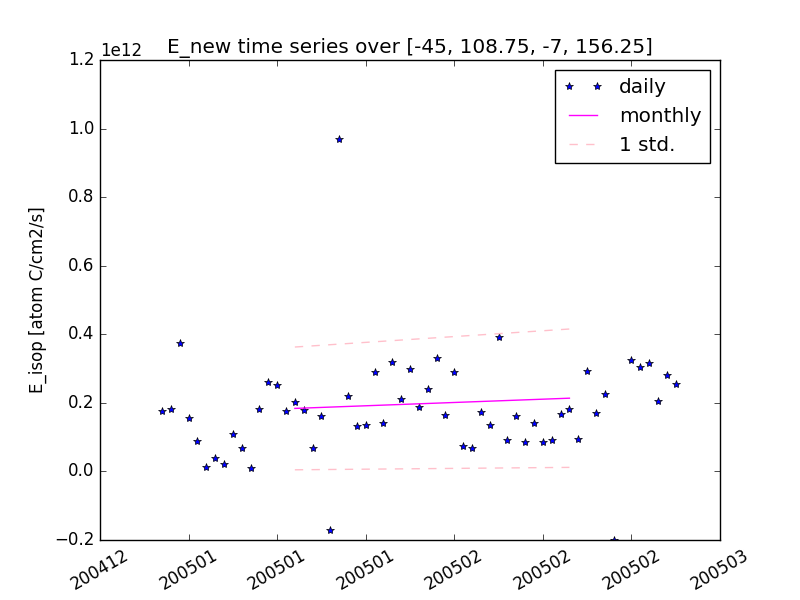
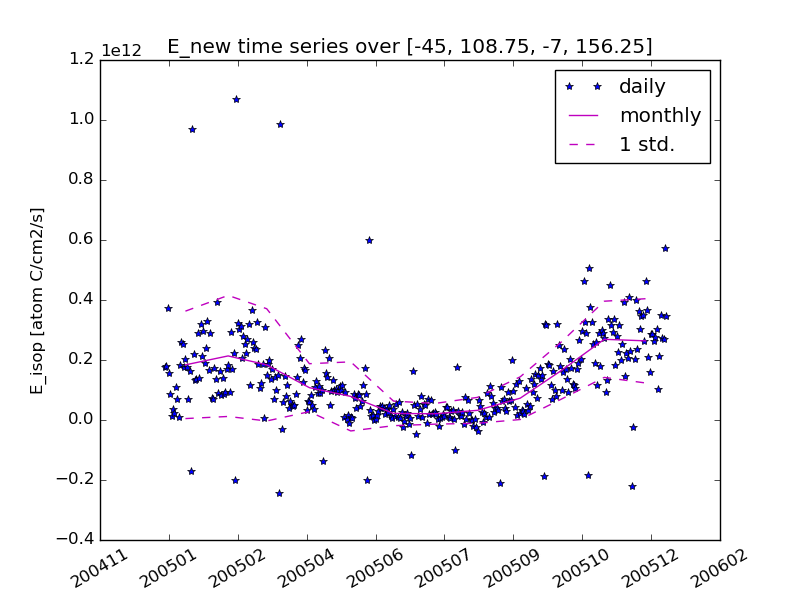
Figure for E_new updated, running analysis checks

diff --git a/utilities/plotting.py b/utilities/plotting.py
@@ -27,6 +27,7 @@ sys.path.insert(0,os.path.dirname(currentdir))
 
 from utilities.JesseRegression import RMA
 from utilities.utilities import regrid
+import utilities.fio as fio
 sys.path.pop(0)
 
 ###############
@@ -184,6 +185,83 @@ def createmap(data, lats, lons, edges=False ,
 
     if fillcontinents is not None:
         m.fillcontinents(fillcontinents)
+
+    # add titles and cbar label
+    if title is not None:
+        plt.title(title)
+    if suptitle is not None:
+        plt.suptitle(suptitle)
+    cb=None
+    if colorbar:
+        cbargs={'size':'5%','pad':'1%','extend':'both','format':cbarfmt}
+        cb=m.colorbar(cs,"bottom", **cbargs)
+        if clabel is not None:
+            cb.set_label(clabel)
+        if cbarxtickrot is not None:
+            cb.ax.set_xticklabels(cb.ax.get_xticklabels(), rotation=cbarxtickrot)
+
+    # if a plot name is given, save and close figure
+    if pname is not None:
+        plt.savefig(pname)
+        print("Saved "+pname)
+        plt.close()
+        return
+
+    # if no colorbar is wanted then don't return one (can be set externally)
+    return m, cs, cb
+
+def plot_swath(day, region=__AUSREGION__,
+              pname=None,title=None,suptitle=None,
+              linear=True, clabel=None, cbarxtickrot=None,
+              vmin=None, vmax=None,cmapname=None):
+    '''
+        Plot OMI swath for requested day
+    '''
+    if __VERBOSE__:
+        print("plot_swath called: %s"%str(title))
+
+    # Create a basemap map with region as inputted
+    lllat=region[0]; urlat=region[2]; lllon=region[1]; urlon=region[3]
+    m=Basemap(llcrnrlat=lllat, urcrnrlat=urlat, llcrnrlon=lllon, urcrnrlon=urlon,
+              resolution='i', projection='merc')
+
+    swaths=fio.read_omhcho_day(day)
+    data=swaths['HCHO']
+    lats=swaths['lats']
+    lons=swaths['lons']
+    
+    # Set vmin and vmax if necessary
+    if vmin is None:
+        vmin=1.05*np.nanmin(data)
+    if vmax is None:
+        vmax=0.95*np.nanmax(data)
+
+    # Make edges into 2D meshed grid
+    mlons,mlats=np.meshgrid(lons,lats)
+
+    if cmapname is None:
+        cmapname = matplotlib.rcParams['image.cmap']
+
+    cmap=plt.cm.cmap_d[cmapname]
+    pcmeshargs={'vmin':vmin, 'vmax':vmax, 'clim':(vmin, vmax),
+                'latlon':True, 'cmap':cmap}
+
+    if not linear:
+        if __VERBOSE__:print("createmap() is removing negatives")
+        pcmeshargs['norm']=LogNorm()
+        data[data<=0]=np.NaN
+
+    #force nan into any pixel with nan results, so color is not plotted there...
+    mdata=np.ma.masked_invalid(data) # mask non-finite elements
+    #mdata=data # masking occasionally throws up all over your face
+
+    cs=m.pcolormesh(mlons, mlats, mdata, **pcmeshargs)
+    # colour limits for contour mesh
+    cs.set_clim(vmin,vmax)
+
+    # draw coastline and equator(no latlon labels)
+    m.drawcoastlines()
+    m.drawparallels([0],labels=[0,0,0,0])
 
     # add titles and cbar label
     if title is not None:

diff --git a/Analyse_E_isop.py b/Analyse_E_isop.py
@@ -43,10 +43,36 @@ def check_E_new(d0=datetime(2005,1,1),dn=datetime(2005,12,1),region=pp.__AUSREGI
     # Read data
     Enew=E_new(d0,dn)
     dates,E_isop=Enew.get_series('E_isop',region=region)
+    
     negs=np.where(E_isop<0)[0]
+    highs=np.where(E_isop>6e11)[0]
     print("Negative emissions, date")
     for i in negs:
+        neg_date=dates[i]
         print("%.4e    , %s"%(E_isop[i],str(dates[i])))
+        #plot the maps:
+    print("Super high emissions, date")
+    for i in highs:
+        high_date=dates[i]
+        print("%.4e    , %s"%(E_isop[i],str(dates[i])))
+        # plot the maps:
+    
+    # first plot swath for negative, and positive day:
+    neg=dates[negs[0]]
+    high=dates[highs[0]]
+    
+    f,ax=plt.subplots([2,2], figsize=[11,11])
+    plt.sca(ax[0,0])
+    pp.plot_swath(neg, title="HCHO from OMI %s"%str(neg),region=region)
+    
+    plt.sca(ax[0,1])
+    pp.plot_swath(neg, title="HCHO from OMI %s"%str(high), region=region)
+    
+    pname="Figs/Checks/E_new_swaths.png"
+    plt.savefig(pname)
+    print("saved %s"%pname)
+    
+    
 
 
 def E_new_time_series(d0=datetime(2005,1,1),dn=datetime(2005,12,1),region=pp.__AUSREGION__):
@@ -378,9 +404,9 @@ if __name__=='__main__':
     SEAus=[-41,138.75,-25,156.25]
     regions=pp.__AUSREGION__, SEAus, JennySEA_fixed
 
-    d0=datetime(2005,1,1); dn=datetime(2005,2,20)
-    E_new_time_series(d0,dn,region=pp.__AUSREGION__) # Takes a few minuts (use qsub)
-    #check_E_new()
+    d0=datetime(2005,1,1); dn=datetime(2005,12,31)
+    #E_new_time_series(d0,dn,region=pp.__AUSREGION__) # Takes a few minuts (use qsub)
+    check_E_new(dn=datetime(2005,3,1))
 
 #    for region in regions:
 #        print("REGION = %s"%str(region))

diff --git a/GC_tests.py b/GC_tests.py
@@ -322,14 +322,15 @@ if __name__=='__main__':
     #check_shapefactors()
     #check_tropchem_monthly()
     
-    # Compare 200406
-    compare_tc_ucx(datetime(2004,6,1),fnames=['trac_avg_200406.nc','trac_avg_UCX_200406.nc'])
-    # compare 200507
-    compare_tc_ucx(datetime(2005,7,1),
-                   fnames=['trac_avg_200507.nc','trac_avg_UCX_200507.nc'])
-    compare_tc_ucx(datetime(2005,1,1),
-                   fnames=['trac_avg_200501_month.nc','trac_avg_UCX_200501.nc'],
-                   suffix='_rerun')
+    # Compare explicit dates:
+    for cdate in [ datetime(2004,7,1), ]:
+        yymm=cdate.strftime("%Y%m")
+        fnames= [ "trac_avg_%s.nc"%yymm, "trac_avg_UCX_%s.nc"%yymm] 
+        compare_tc_ucx(cdate,fnames=fnames)
+    
+    #compare_tc_ucx(datetime(2005,1,1),
+    #               fnames=['trac_avg_200501_month.nc','trac_avg_UCX_200501.nc'],
+    #               suffix='_rerun')
     
     #compare_surface_tc_ucx()
     #compare_tc_ucx()
